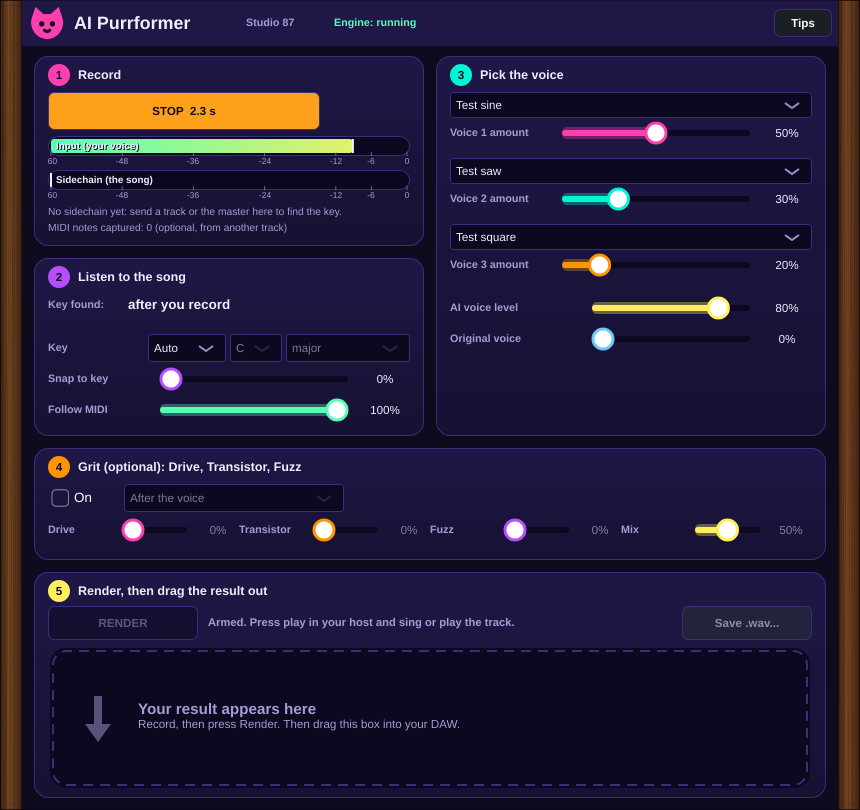
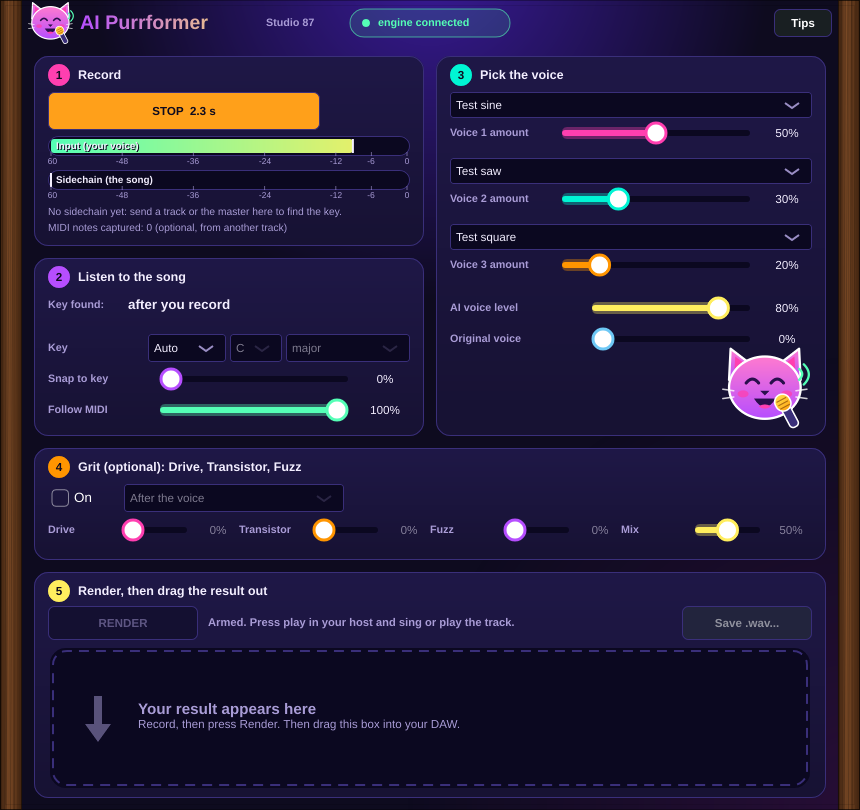
FX editor: purple mockup look (indigo glow, gradient brand, engine pill, singing cat that bobs while recording or rendering); docs images re-shot
Claude-Session: https://claude.ai/code/session_01PqAkF1A1VUtkvDE6W562Td

Changed region(s): [[0.0, 0.0, 0.786, 0.3086], [0.8163, 0.0, 0.9977, 0.0617], [0.8465, 0.4321, 0.9372, 0.5247]]

diff --git a/plugin/src/FxEditor.cpp b/plugin/src/FxEditor.cpp
@@ -1,4 +1,5 @@
 #include "FxEditor.h"
+#include "Mascot.h"
 #include <catui/CatLookAndFeel.h>
 #include <catui/Logo.h>
 #include <catui/RenderGate.h>
@@ -138,6 +139,7 @@ struct DropBox : juce::Component, juce::SettableTooltipClient
     juce::MouseCursor getMouseCursor() override { return ready() ? juce::MouseCursor::DraggingHandCursor : juce::MouseCursor::NormalCursor; }
 };
 
+bool busy0 (FxProcessor& p) { return p.renderState.load() == 1; }
 juce::String pctText (double v, int) { return juce::String (juce::roundToInt (v * 100.0)) + "%"; }
 double pctValue (const juce::String& t) { return t.getDoubleValue() / 100.0; }
 } // namespace
@@ -162,6 +164,8 @@ struct FxEditor::Content : juce::Component
     std::unique_ptr<juce::FileChooser> chooser;
     int blink = 0;
     bool tips = true;
+    std::unique_ptr<juce::Drawable> mascot;   // the singing cat from the UI mockup
+    float bob = 0.0f;
 
     Content (FxProcessor& p, FxEditor& o) : proc (p), owner (o)
     {
@@ -244,6 +248,7 @@ struct FxEditor::Content : juce::Component
         addAndMakeVisible (inMeter); addAndMakeVisible (scMeter); addAndMakeVisible (drop);
         drop.setTooltip ("Drag this box onto any track in your host to drop the AI voice there.");
 
+        if (auto xml = juce::XmlDocument::parse (mascotSvg)) mascot = juce::Drawable::createFromSVG (*xml);
         gate.onFrame = [this] { frame(); };
         gate.start (30);
         syncVoices();
@@ -288,6 +293,8 @@ struct FxEditor::Content : juce::Component
         drop.refreshPeaks(); drop.tick();
         const auto s = proc.recState();
         ++blink;
+        const bool singing = s == FxProcessor::Recording || busy0 (proc);
+        bob = singing ? bob + 0.35f : 0.0f;
         recBtn.setButtonText (s == FxProcessor::Armed ? "WAITING FOR PLAY... (click to cancel)"
                               : s == FxProcessor::Recording ? "STOP  " + juce::String (proc.recordedSeconds(), 1) + " s"
                               : s == FxProcessor::Done ? "RECORD AGAIN" : "RECORD");
@@ -404,17 +411,32 @@ struct FxEditor::Content : juce::Component
 
     void paint (juce::Graphics& g) override
     {
+        // deep indigo with the purple glow from the mockup
         g.fillAll (bg);
+        g.setGradientFill (juce::ColourGradient (juce::Colour (0xff3A1B9A), (float) getWidth() * 0.5f, -40.0f, bg, (float) getWidth() * 0.5f, 300.0f, true));
+        g.fillRect (getLocalBounds());
+        g.setGradientFill (juce::ColourGradient (juce::Colour (0x555B1466), (float) getWidth(), (float) getHeight(), juce::Colour (0x005B1466),
+                                                 (float) getWidth() * 0.55f, (float) getHeight() * 0.7f, true));
+        g.fillRect (getLocalBounds());
         catui::drawWoodCheeks (g, getLocalBounds(), kCheek);
         auto hd = lay.hdr;
-        g.setColour (panelHi); g.fillRect (hd);
-        catui::drawCatHead (g, hd.removeFromLeft (52).reduced (8, 6).toFloat(), pink, bg);
-        label (g, "AI Purrformer", hd.withWidth (170), ink, 20.0f);
-        label (g, "Studio 87", hd.withTrimmedLeft (172).withWidth (80), mute, 12.0f);
-        const bool up = proc.engineUp.load();
-        label (g, up ? "Engine: running" : "Engine NOT running. Start it from the Start menu (AI Purrformer Engine).",
-               hd.withTrimmedLeft (260).withTrimmedRight (80), up ? mint : orange, 12.0f);
-
+        if (mascot != nullptr) mascot->drawWithin (g, hd.removeFromLeft (58).reduced (4, 2).toFloat(), juce::RectanglePlacement::centred, 1.0f);
+        else hd.removeFromLeft (58);
+        g.setGradientFill (juce::ColourGradient (violet, (float) hd.getX(), 0.0f, sun, (float) hd.getX() + 190.0f, 0.0f, false));
+        g.setFont (ui (22.0f, true));
+        g.drawText ("AI Purrformer", hd.withWidth (190), juce::Justification::centredLeft);
+        label (g, "Studio 87", hd.withTrimmedLeft (186).withWidth (80), mute, 12.0f);
+        {
+            const bool up = proc.engineUp.load();
+            const auto c = up ? mint : pink;
+            auto pill = hd.withTrimmedLeft (270).withTrimmedRight (86).withHeight (28).withY (hd.getY() + 9).toFloat();
+            pill = pill.withWidth (juce::jmin (pill.getWidth(), up ? 160.0f : 420.0f));
+            g.setColour (c.withAlpha (0.12f)); g.fillRoundedRectangle (pill, 14.0f);
+            g.setColour (c.withAlpha (0.6f)); g.drawRoundedRectangle (pill, 14.0f, 1.0f);
+            g.setColour (c); g.fillEllipse (pill.getX() + 12, pill.getCentreY() - 4, 8, 8);
+            label (g, up ? "engine connected" : "Engine NOT running. Start it from the Start menu (AI Purrformer Engine).",
+                   pill.toNearestInt().withTrimmedLeft (28), c, 12.0f);
+        }
         card (g, lay.c1, "1", "Record", pink);
         card (g, lay.c2, "2", "Listen to the song", violet);
         card (g, lay.c3, "3", "Pick the voice", teal);
@@ -445,6 +467,14 @@ struct FxEditor::Content : juce::Component
         for (int i = 0; i < 3; ++i) lab ("Voice " + juce::String (i + 1) + " amount", lay.wL[i]);
         lab ("AI voice level", lay.outL); lab ("Original voice", lay.dryL);
         label (g, proc.statusText(), lay.statusR, mute, 12.5f);
+        // the singing cat, bobbing while it records or renders
+        if (mascot != nullptr)
+        {
+            const float dy = bob > 0.0f ? -6.0f * std::abs (std::sin (bob)) : 0.0f;
+            mascot->drawWithin (g, juce::Rectangle<float> ((float) lay.c3.getRight() - 104.0f, (float) lay.c3.getBottom() - 90.0f + dy, 88.0f, 88.0f),
+                                juce::RectanglePlacement::centred, 1.0f);
+        }
+
     }
 
     void resized() override
